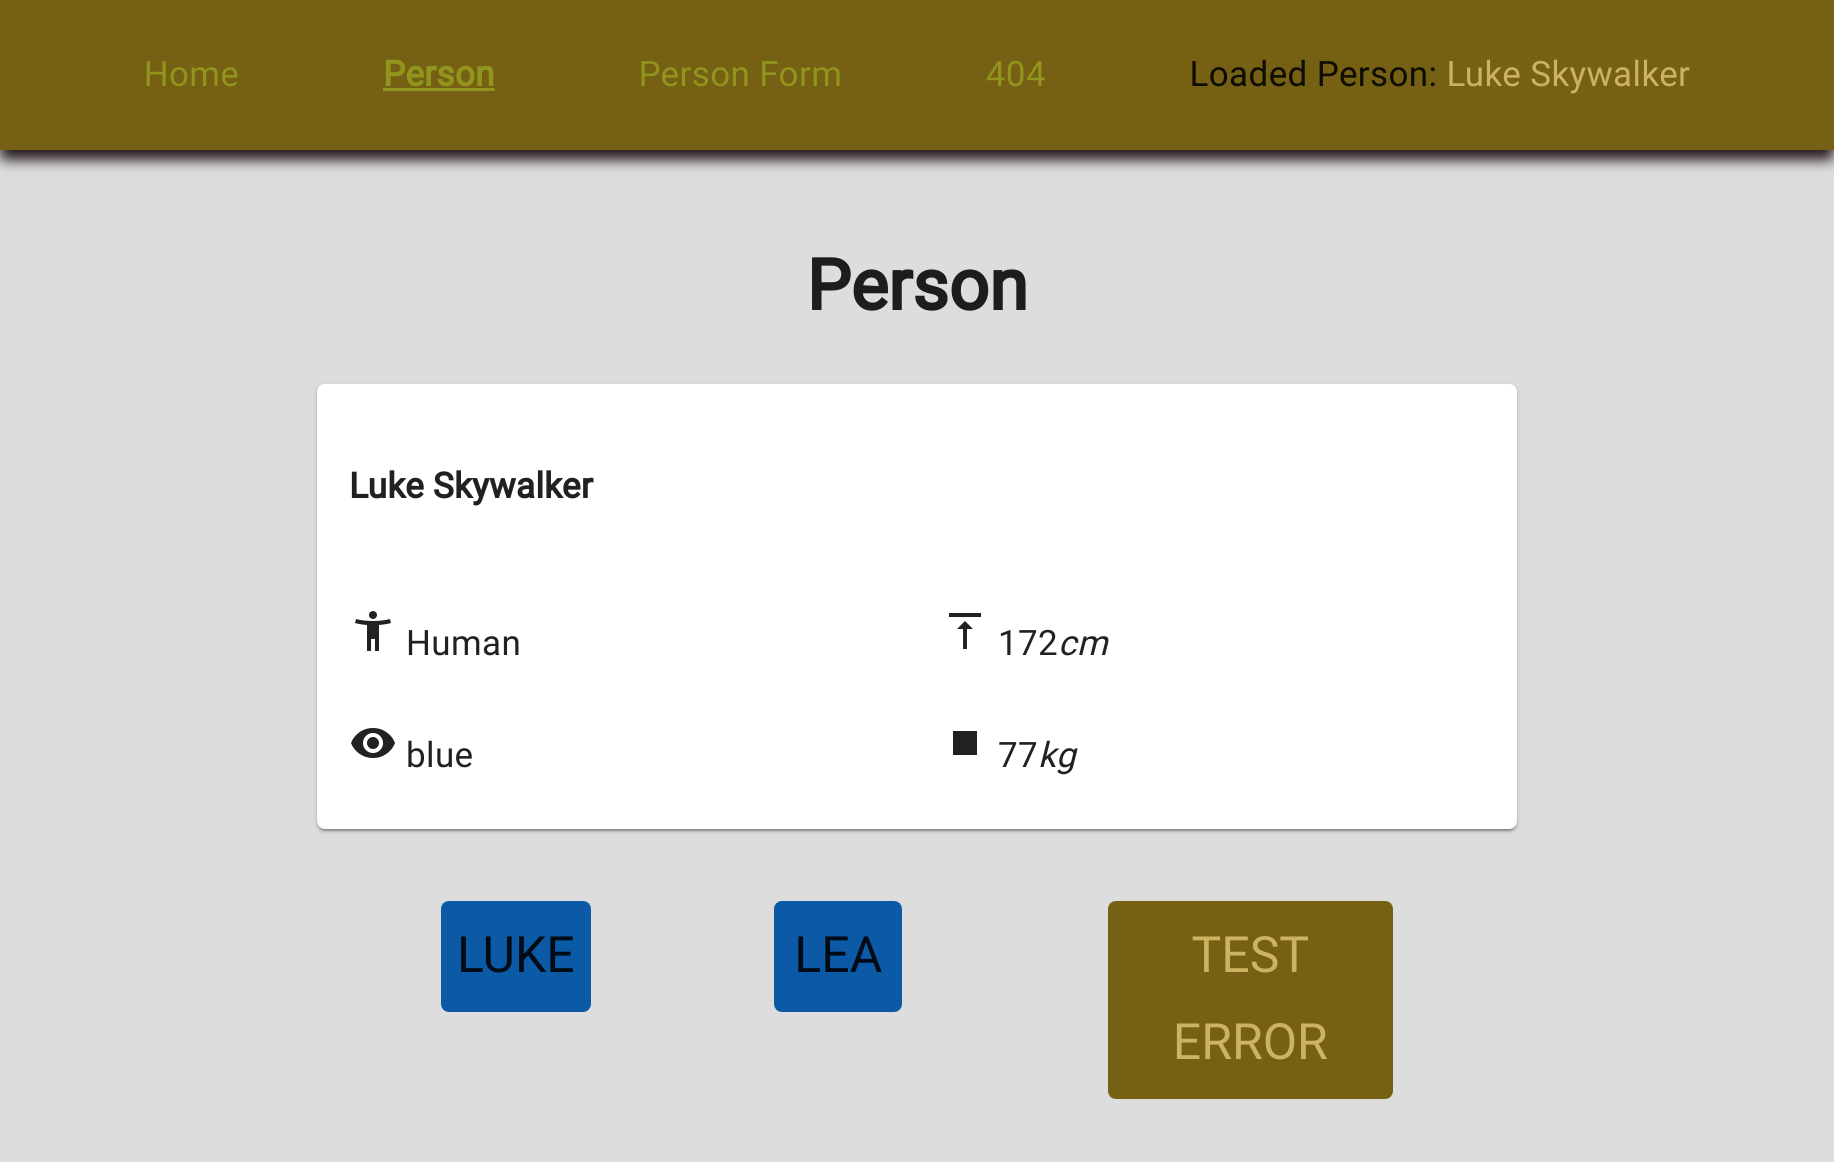
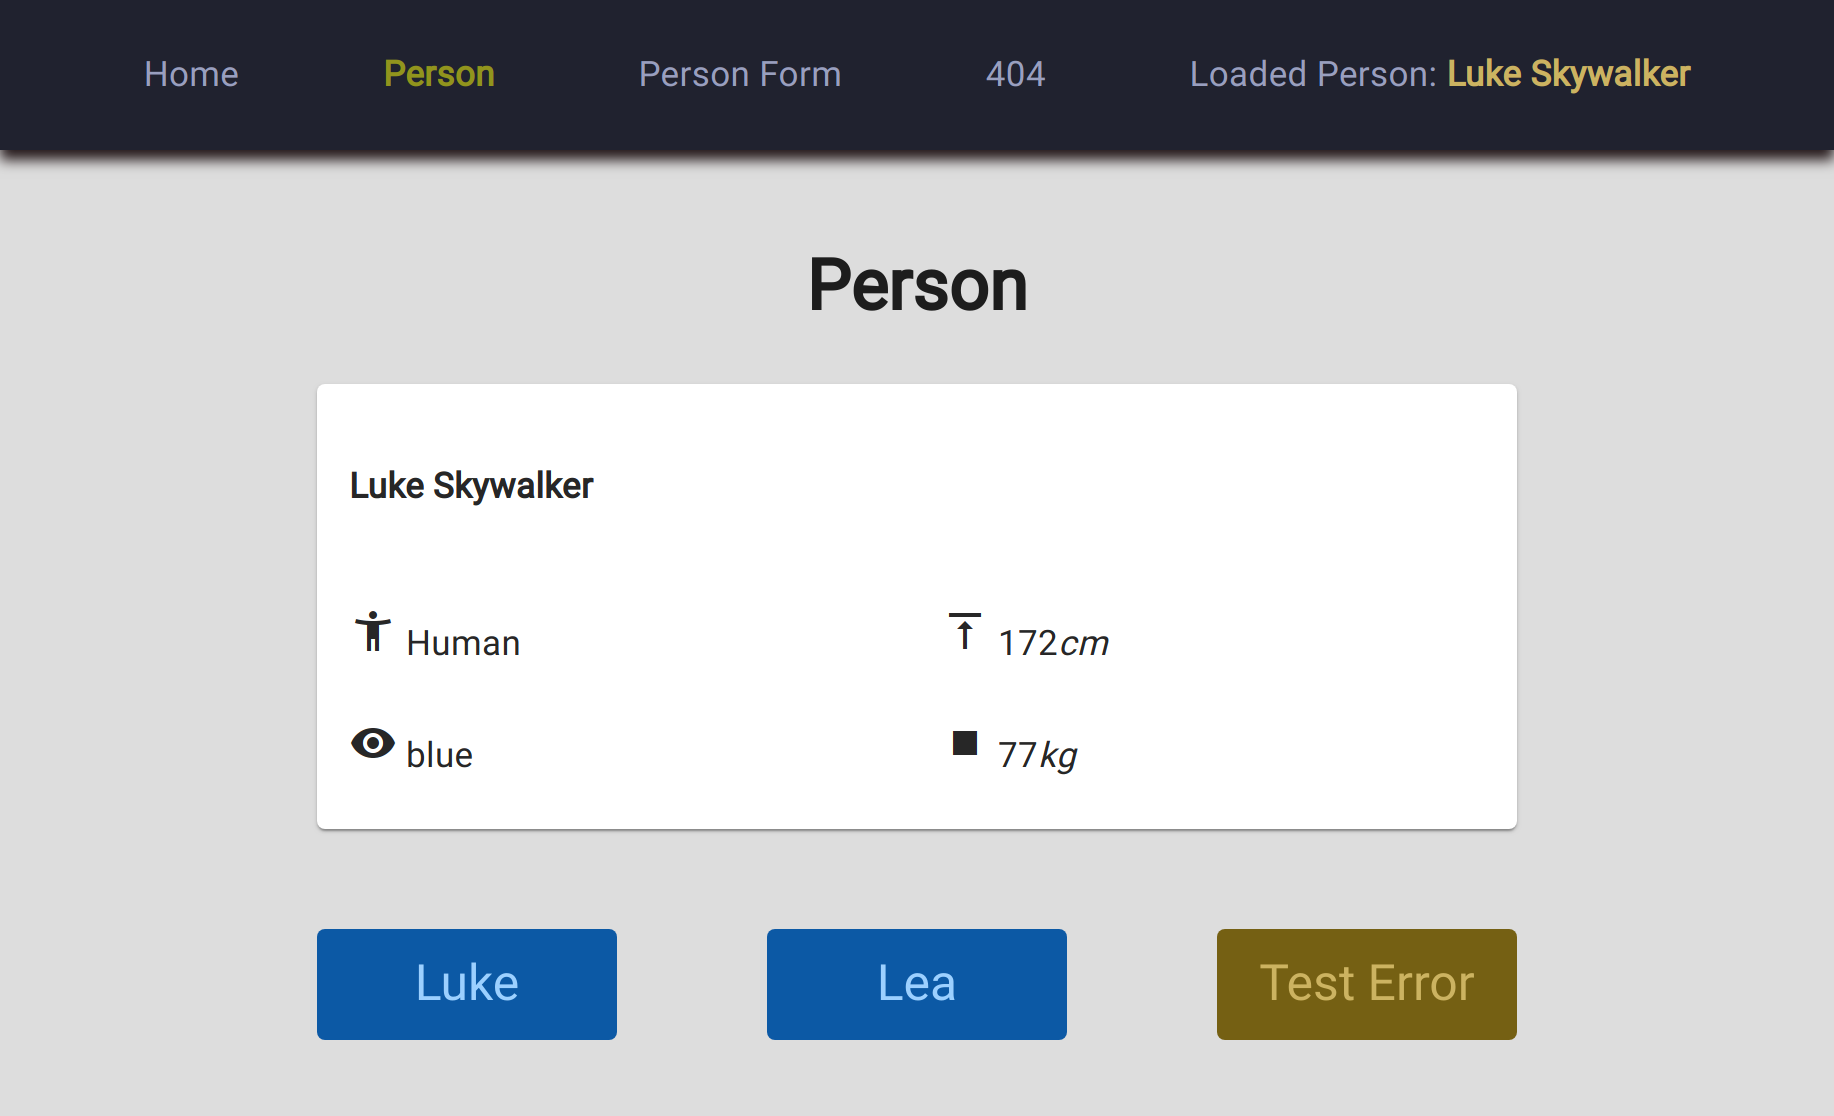
:hibiscus: Redesign

diff --git a/src/pages/Person/index.js b/src/pages/Person/index.js
@@ -40,41 +40,48 @@ const Person = () => {
         isLoading={isLoading}
       />
 
-      <Grid container spacing={3} className={styles.GridContainer}>
+      <br />
+
+      <Grid
+        container
+        spacing={0}
+        justify='space-between'
+        className={styles.GridContainer}
+      >
         <Grid item xs={12}>
           {errorMessage && <Error>{errorMessage}</Error>}
+          <br />
         </Grid>
 
-        <Grid item xs={4}>
-          <Button
-            onClick={fetchPersonById(1)}
-            isLoading={isLoading}
-            disabled={isLoading}
-          >
-            Luke
-          </Button>
-        </Grid>
+        <Button
+          className={styles.Button}
+          onClick={fetchPersonById(1)}
+          isLoading={isLoading}
+          disabled={isLoading}
+        >
+          Luke
+        </Button>
 
-        <Grid item xs={4}>
-          <Button
-            onClick={fetchPersonById(5)}
-            isLoading={isLoading}
-            disabled={isLoading}
-          >
-            Lea
-          </Button>
-        </Grid>
+        <Button
+          className={styles.Button}
+          onClick={fetchPersonById(5)}
+          isLoading={isLoading}
+          disabled={isLoading}
+        >
+          Lea
+        </Button>
 
-        <Grid item xs={4}>
-          <Button
-            color='secondary'
-            onClick={fetchPersonById(100)}
-            isLoading={isLoading}
-            disabled={isLoading}
-          >
-            Test Error
-          </Button>
-        </Grid>
+
+        <Button
+          className={styles.Button}
+          color='secondary'
+          onClick={fetchPersonById(100)}
+          isLoading={isLoading}
+          disabled={isLoading}
+        >
+          Test Error
+        </Button>
+
       </Grid>
     </>
   )

diff --git a/src/forms/PersonForm/index.js b/src/forms/PersonForm/index.js
@@ -6,6 +6,8 @@ import * as yup from 'yup'
 
 import {TextInput, Button} from 'components'
 
+import styles from './index.module.scss'
+
 
 const validationResolver = yup.object().shape({
   id: yup
@@ -38,6 +40,7 @@ const PersonForm = ({onSubmit, isLoading, defaultValues, className}) => {
       <Controller
         as={TextInput}
         name='id'
+        className={styles.TextInput}
         control={control}
         disabled={isLoading}
         error={Boolean(errors.id)}
@@ -49,6 +52,7 @@ const PersonForm = ({onSubmit, isLoading, defaultValues, className}) => {
       <br />
 
       <Button
+        className={styles.Button}
         type='submit'
         isLoading={isLoading}
         disabled={isLoading}
@@ -69,7 +73,7 @@ PersonForm.propTypes = {
 
 PersonForm.defaultProps = {
   isLoading: false,
-  defaultValues: {},
+  defaultValues: {id: 20},
   className: '',
 }
 

diff --git a/src/assets/themes/index.js b/src/assets/themes/index.js
@@ -5,6 +5,7 @@ import {
   defaultFontSize,
   darkBlue,
   lightBlue,
+  royalBlue,
   chenin,
   mustard,
   jarrah,
@@ -14,10 +15,10 @@ const theme = createMuiTheme({
   palette: {
     primary: {
       main: darkBlue,
-      dark: lightBlue,
+      dark: royalBlue,
     },
     action: {
-      disabledBackground: lightBlue,
+      disabledBackground: royalBlue,
     },
   },
 
@@ -30,8 +31,11 @@ const theme = createMuiTheme({
     MuiButton: {
       root: {
         backgroundColor: darkBlue,
+        color: lightBlue,
+        textTransform: 'capitalize',
+
         '&:hover': {
-          backgroundColor: lightBlue,
+          backgroundColor: royalBlue,
         },
 
         '&.Mui-disabled': {

diff --git a/src/assets/styles/_colors.scss b/src/assets/styles/_colors.scss
@@ -1,20 +1,28 @@
+$black: #20222F;
+$porsche: #D99858;
+$logan: #999FBF;
+$crimson: #F13D4C;
 $darkBlue: #0C59A5;
 $lightBlue: #9CD0FF;
+$royalBlue: #4167DA;
 $chenin: #CCB361;
 $mustard: #756013;
 $jarrah: #25191B;
 $olive: #91941D;
-$firebrick: #A00F19;
 $grey: #ddd;
 
 // Exports variables to be used in JS theme definition at assets/themes.
 :export {
+  black: $black;
+  porsche: $porsche;
+  logan: $logan;
+  crimson: $crimson;
   darkBlue: $darkBlue;
   lightBlue: $lightBlue;
+  royalBlue: $royalBlue;
   chenin: $chenin;
   mustard: $mustard;
   jarrah: $jarrah;
   olive: $olive;
-  firebrick: $firebrick;
   grey: $grey;
 }

diff --git a/src/layouts/PublicLayout/index.module.scss b/src/layouts/PublicLayout/index.module.scss
@@ -1,7 +1,8 @@
 @import '~assets/styles/_colors.scss';
 
 .HeaderNavigation {
-  background-color: $mustard;
+  background-color: $black;
+  color: $logan;
   box-shadow: 0px 5px 10px $jarrah;
   display: flex;
   align-items: center;
@@ -10,12 +11,13 @@
 }
 
 .ActiveLink {
-  text-decoration: underline;
+  color: $olive;
   font-weight: bolder;
 }
 
 .PersonName {
   color: $chenin;
+  font-weight: bolder;
 }
 
 .ContentWrap {

diff --git a/src/components/Error/index.module.scss b/src/components/Error/index.module.scss
@@ -2,6 +2,6 @@
 @import '~assets/styles/_typography.scss';
 
 .Error {
-  color: $firebrick;
+  color: $crimson;
   font-size: $smallFontSize;
 }

diff --git a/src/pages/Person/index.module.scss b/src/pages/Person/index.module.scss
@@ -1,4 +1,8 @@
 .GridContainer {
-  width: 500px;
+  width: 600px;
   margin: auto;
+}
+
+.Button {
+  width: 150px;
 }

diff --git a/src/assets/styles/_common.scss b/src/assets/styles/_common.scss
@@ -23,7 +23,7 @@ body {
 }
 
 a {
-  color: $olive;
+  color: $logan;
   text-decoration: none;
 
   &:hover {

diff --git a/src/pages/PersonForm/index.module.scss b/src/pages/PersonForm/index.module.scss
@@ -1,4 +1,4 @@
 .Error, .Form {
-  width: 500px;
+  width: 600px;
   margin: auto auto 20px auto;
 }

diff --git a/src/forms/PersonForm/index.module.scss b/src/forms/PersonForm/index.module.scss
@@ -1,0 +1,3 @@
+.TextInput, .Button {
+  width: 100%;
+}
